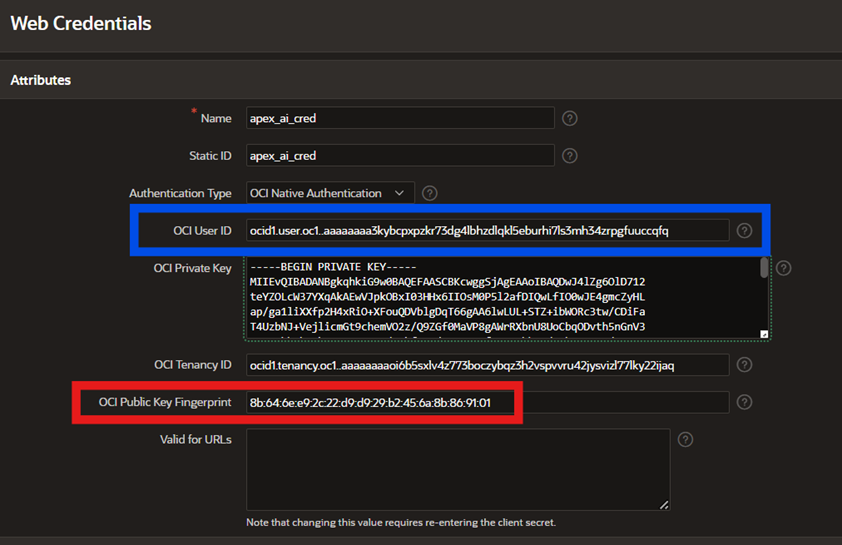
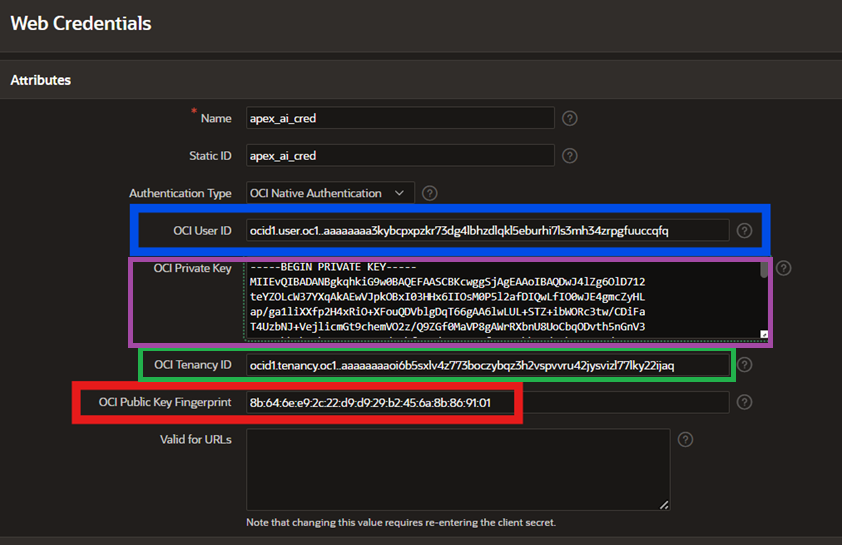
Ajuste Credenciais APEX

Changed region(s): [[0.1544, 0.4679, 0.9264, 0.7174]]

diff --git a/3-apex/3-apex.md b/3-apex/3-apex.md
@@ -110,27 +110,20 @@ Para preencher corretamente essa credencial, é necessário obter algumas inform
 
 Na tela **User Settings**, localize a guia **API Keys** no canto inferior esquerdo. Clique nela e siga as instruções do assistente (wizard) para criar um par de chaves de API. 
 
-> **ATENÇÃO: Certifique-se de salvar as seguintes informações em um local seguro, pois será necessária para configurar a credencial na próxima etapa:** <br></br>
-> - **OCI User ID**
-> - **OCI Private Key**
-> - **OCI Public Key Fingerprint**
-
+> **ATENÇÃO: Certifique-se de fazer o download das chaves em um local seguro, pois será necessária para configurar a credencial na próxima etapa:**
+> 
    ![API Keys](images/api-keys.png)
 
 O preenchimento do formulário no APEX exigirá informações específicas que podem ser obtidas na tela do OCI. Para facilitar, **utilize as seguintes correspondências de cores** entre os dois sistemas. Preencha as seguintes informações:
-- OCI User ID
-- OCI Private Key 
-- OCI Public Key Fingerprint
+- **OCI User ID** (Coletado no Configuration File Preview)
+- **OCI Public Key Fingerprint** (Coletado no Configuration File Preview)
+- **OCID Tenancy** (Coletado no Configuration File Preview)
+- **OCI Private Key** (Abra o arquivo **.pem** cujo download foi realizado em um bloco de notas e copie o conteúdo)
 
-   ![OCID API OCI](images/ocid-api-oci.png)
+Caso você tenha fechado a página com os dados, clique nos **três pontos** ao lado direito do fingerprint e clique em **View Configuration File**
+
+   ![Config Tenancy](images/config-tenancy.png)
    ![OCID API APEX](images/ocid-api-apex.png)
-
-O OCI Tenancy ID pode ser coletado no OCI na página **Tenancy Details**, que pode ser acessada clicando no nome do seu Tenancy na página inicial do Console ou na seção Tenancy Information dentro de User Settings.
-
-   ![Tenancy Details](images/tenancy-details.png)
-   ![Tenancy OCID](images/tenancy-ocid.png)
-
-Retorne à página do APEX e insira o **OCI Tenancy ID** no campo correspondente, utilizando o valor coletado na página Tenancy Details do OCI.
 
 Por fim, clique em **Apply Changes** para salvar as configurações e concluir o ajuste da credencial.
 

diff --git a/6-data-science/6-data-science.md b/6-data-science/6-data-science.md
@@ -126,7 +126,7 @@ Faça o download dos documentos que serão utilizados neste laboratório. Neste 
 
 Descompacte o arquivo em sua máquina. 
 
-Localize o arquivo **FASTRACK_AI_DOCUMENTOS.ipynb**, **arraste e solte** o arquivo até o ambiente de organização de arquivos no Data Science.
+Localize o arquivo **FASTRACK\_AI\_DOCUMENTOS.ipynb**, **arraste e solte** o arquivo até o ambiente de organização de arquivos no Data Science.
 
 ![Upload Notebook](images/upload-notebook.png)
 
